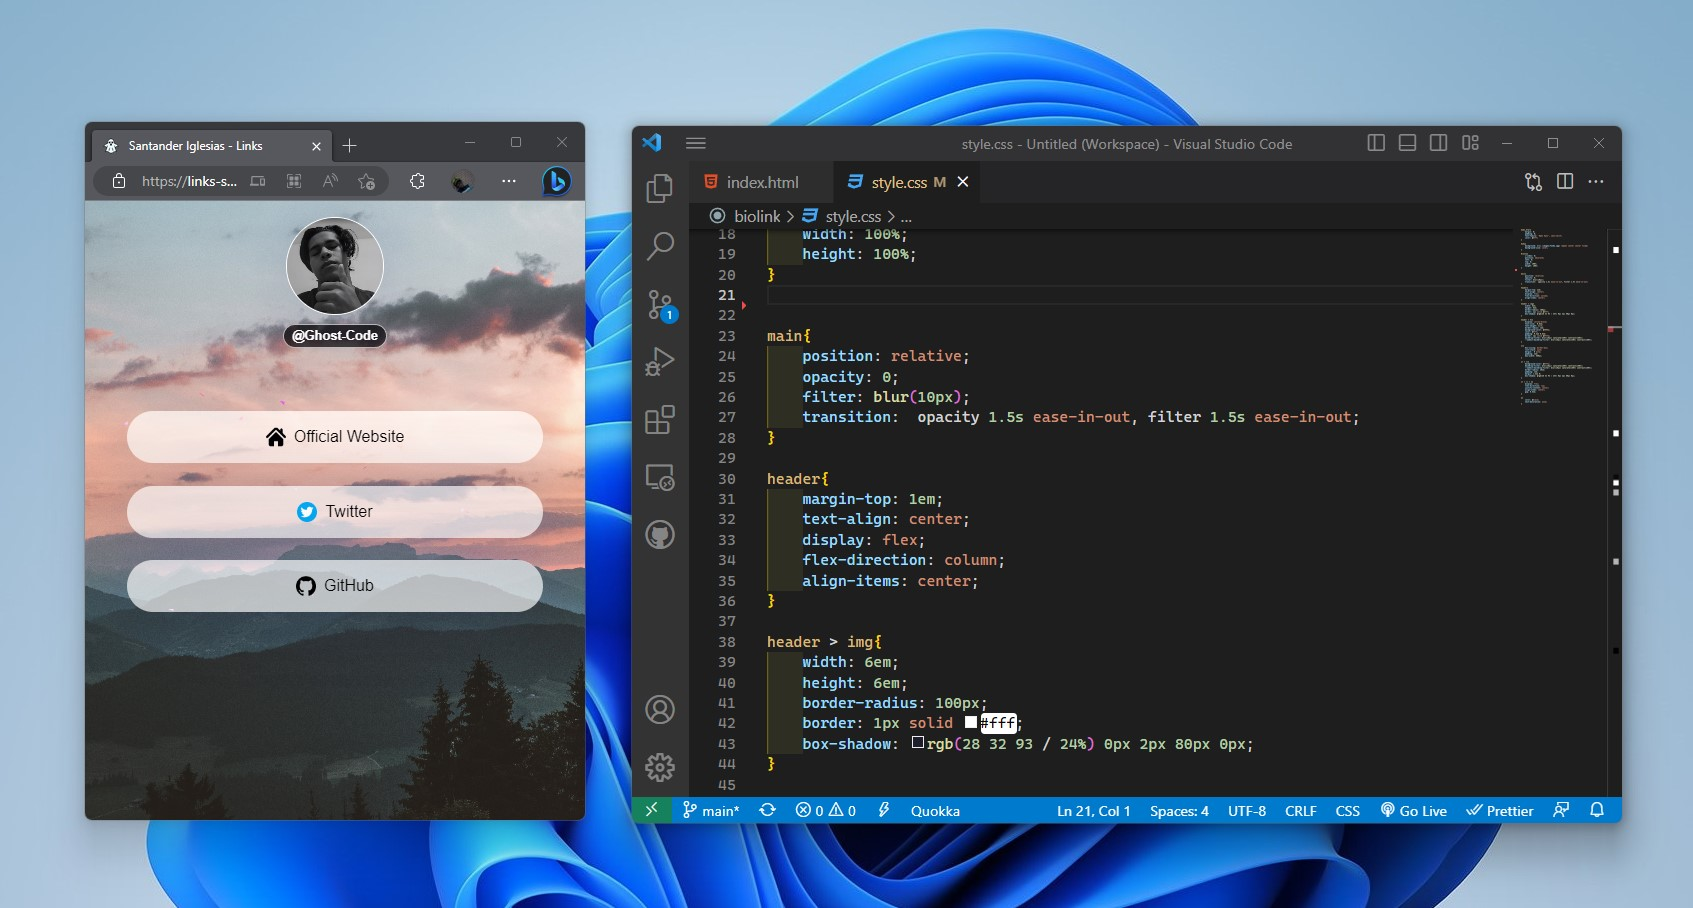
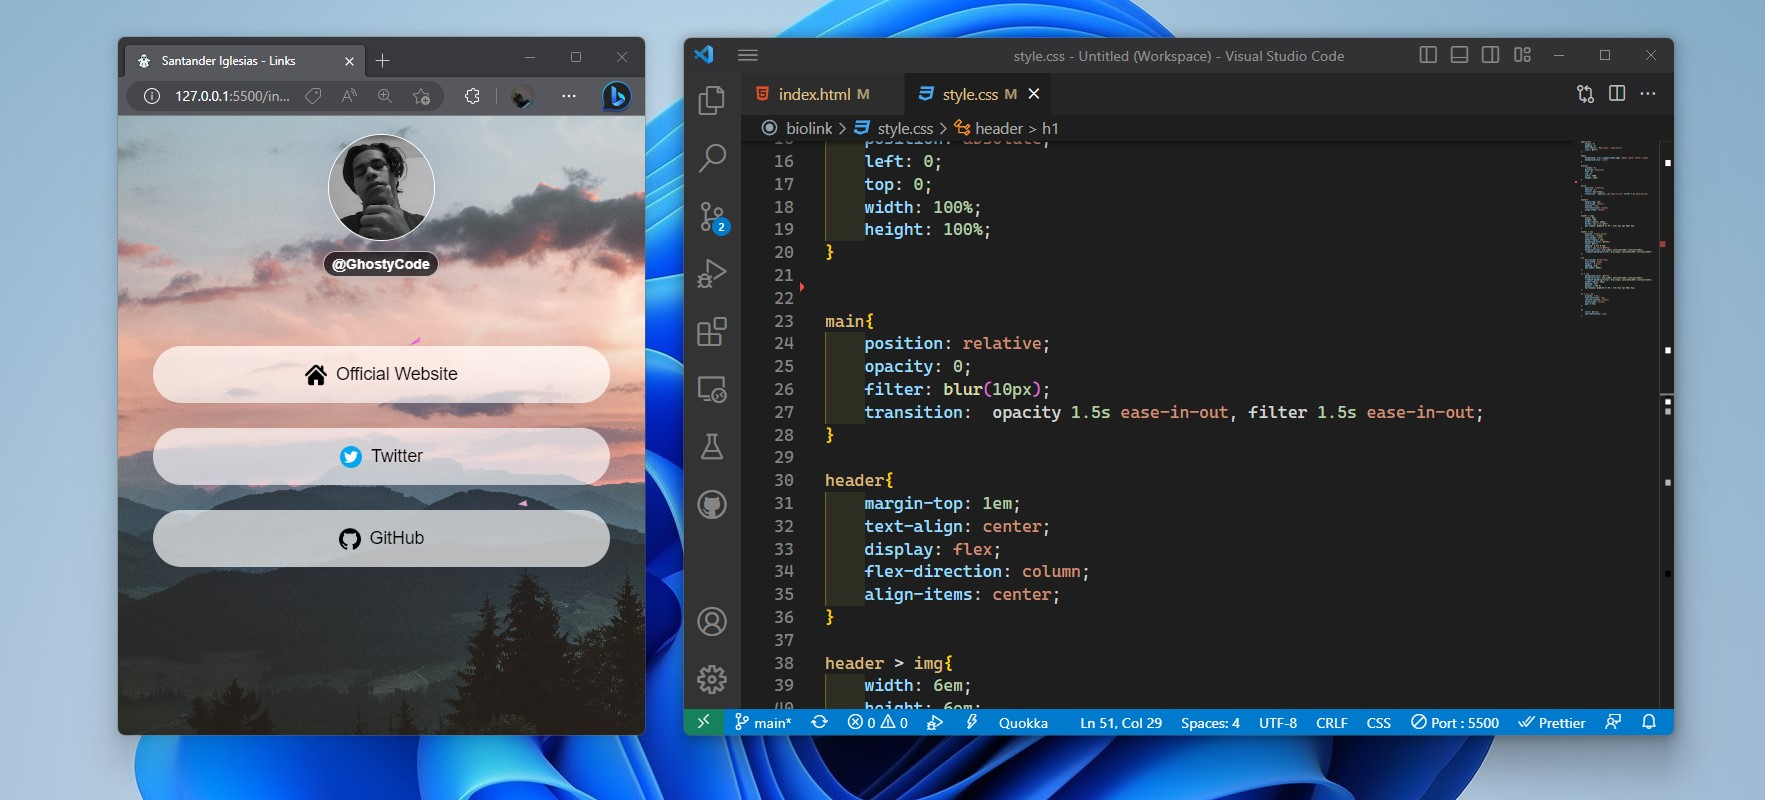
Cambio de nombre de usuario en h1

diff --git a/index.html b/index.html
@@ -41,7 +41,7 @@
     <main>
         <header>
             <img src="./images/Santander.png" alt="Santander">
-            <h1>@Ghost-Code</h1>
+            <h1>@GhostyCode</h1>
         </header>
         <ul>
             <li>

diff --git a/style.css b/style.css
@@ -19,15 +19,6 @@ body{
     height: 100%;
 }
 
-/* video{
-    z-index: 0;
-    position: absolute;
-    left: 0;
-    top: 0;
-    width: 100%;
-    height: 100%;
-    object-fit: cover;
-} */
 
 main{
     position: relative;
